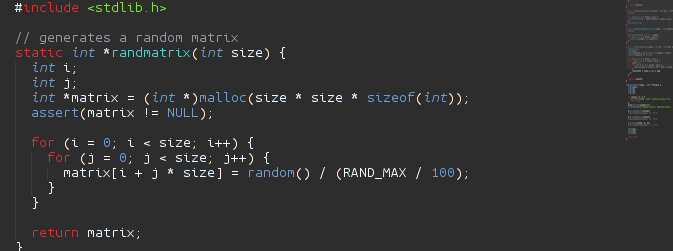
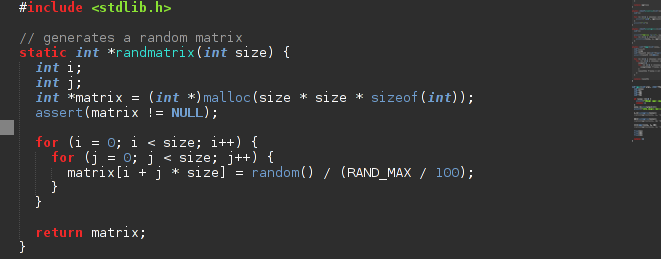
added bold fonts

diff --git a/README.md b/README.md
@@ -1,0 +1,15 @@
+# NumixThinkpad Color Scheme for SublimeText 2/3
+
+This is a Sublime Text Color Scheme which is based on the Numix GTK Theme.
+http://numixproject.org/
+I strongly suggest applying this theme when using this color scheme to get a consistent look.
+
+![Screenshot](https://raw.github.com/mohlerm/sublime-color-scheme-numix-thinkpad/master/numix_thinkpad_1.png)
+
+## Installation
+
+### Manual Installation
+
+1. Download a `.tmTheme` file
+2. *Browse Packages* from the Command Palette (`Ctrl+Shift+P` on Windows and Linux, `⇧⌘P` on OS X)
+3. Copy the `.tmTheme` file to `Packages\User`
